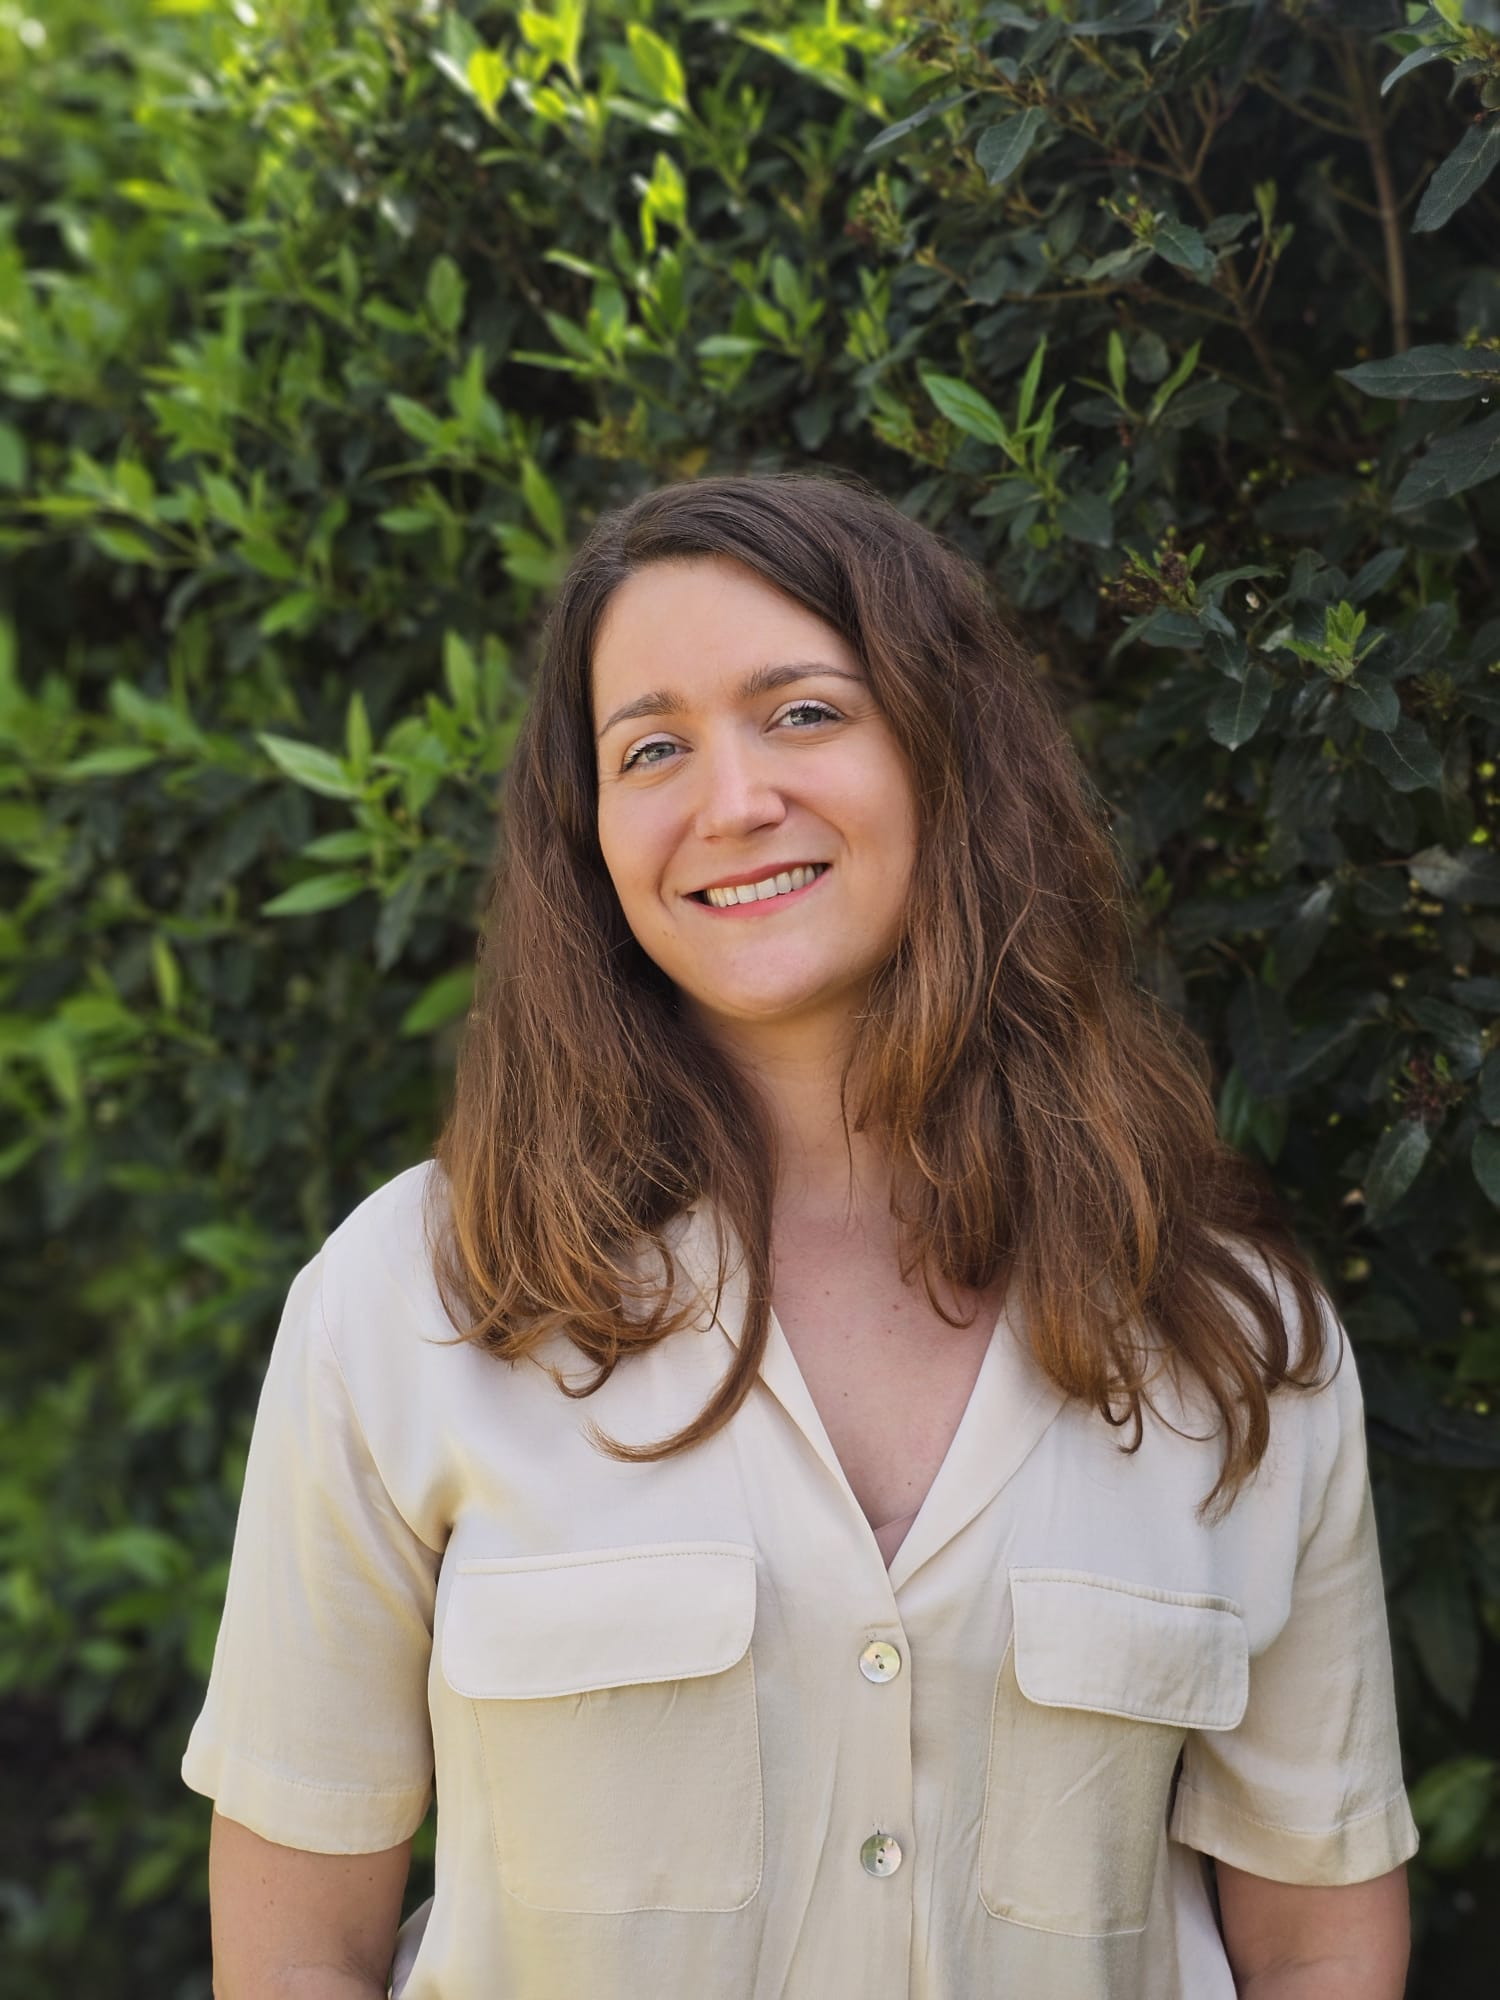
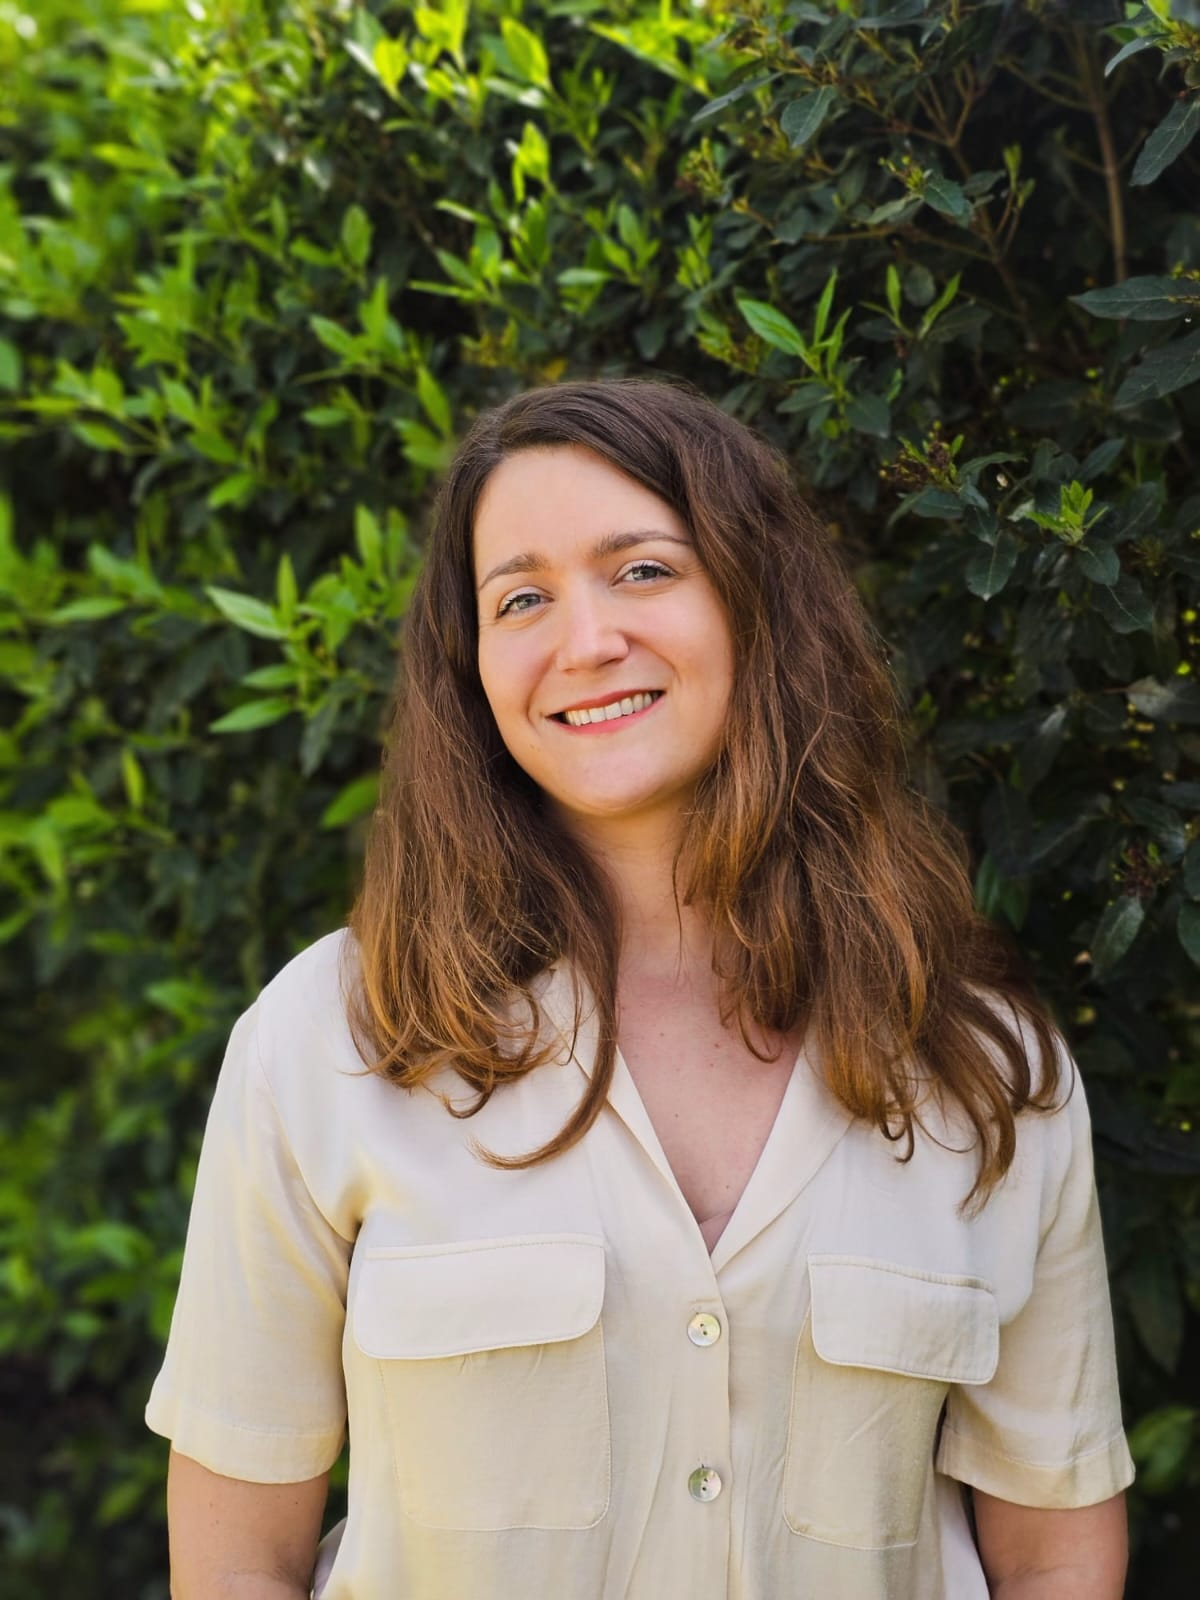
section pour qui photo tête à droite

diff --git a/index.html b/index.html
@@ -80,12 +80,16 @@
     </section>
 
     <section class="section light" id="pour-qui">
-      <div class="container narrow">
-        <h2>Pour qui</h2>
-        <p>
-          Pour celles et ceux qui ressentent le besoin de ralentir.<br>
-          Revenir à quelque chose de plus simple, plus vrai.
-        </p>
+      <div class="container-split reverse">
+        <div class="split-text">
+          <h2>Pour qui</h2>
+          <p>Pour celles et ceux qui ressentent le besoin de ralentir.
+          Revenir à quelque chose de plus simple, plus vrai.</p>
+        </div>
+        <div class="split-image">
+          <img src="images/tête.jpeg" alt="Pour qui Only Inside"
+          class="split-photo">
+        </div>
       </div>
     </section>
 

diff --git a/style.css b/style.css
@@ -360,6 +360,10 @@ a {
   padding: 0 8vw;
 }
 
+.container-split.reverse {
+  flex-direction: row-reverse;
+}
+
 .split-image {
   flex: 1.4;
 }
@@ -615,6 +619,10 @@ footer {
   .container-split {
     flex-direction: column;
     gap: 1.5rem;
+  }
+
+  .container-split.reverse {
+    flex-direction: column;
   }
 
   .split-photo {
